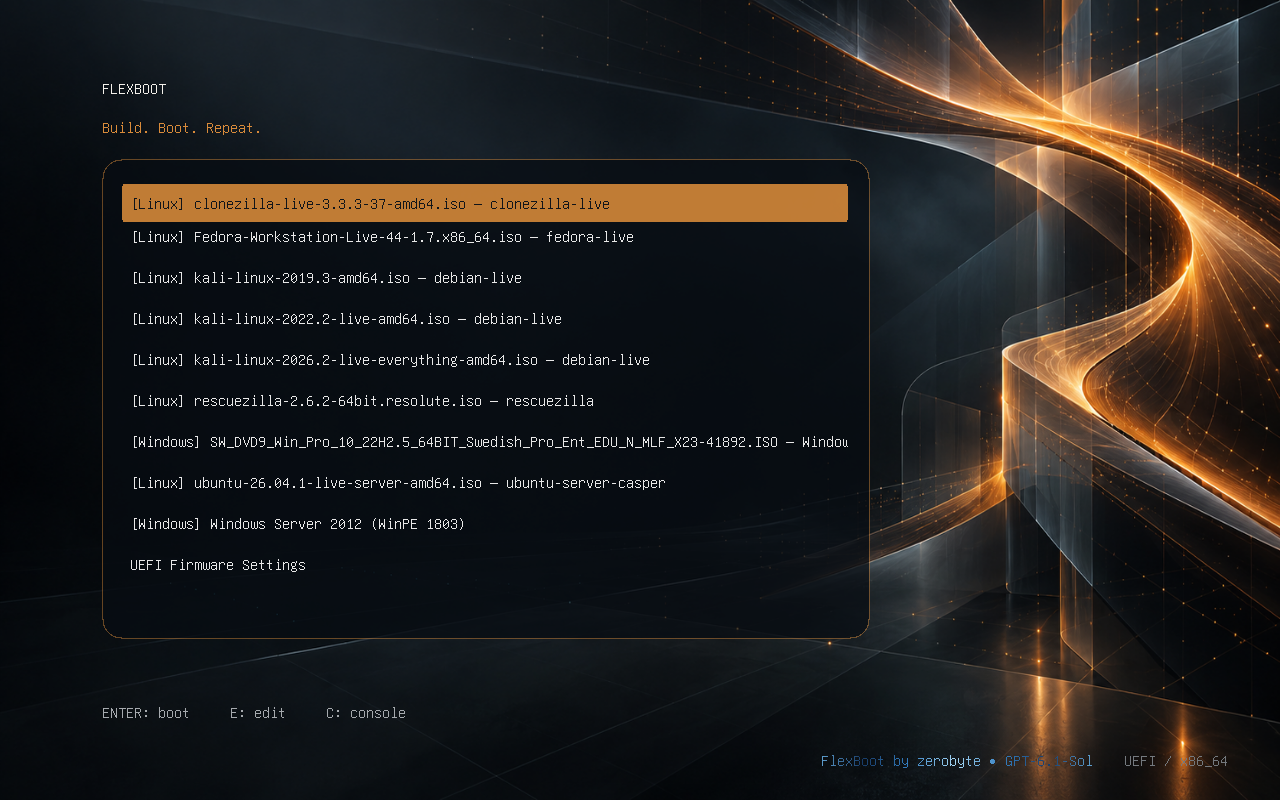
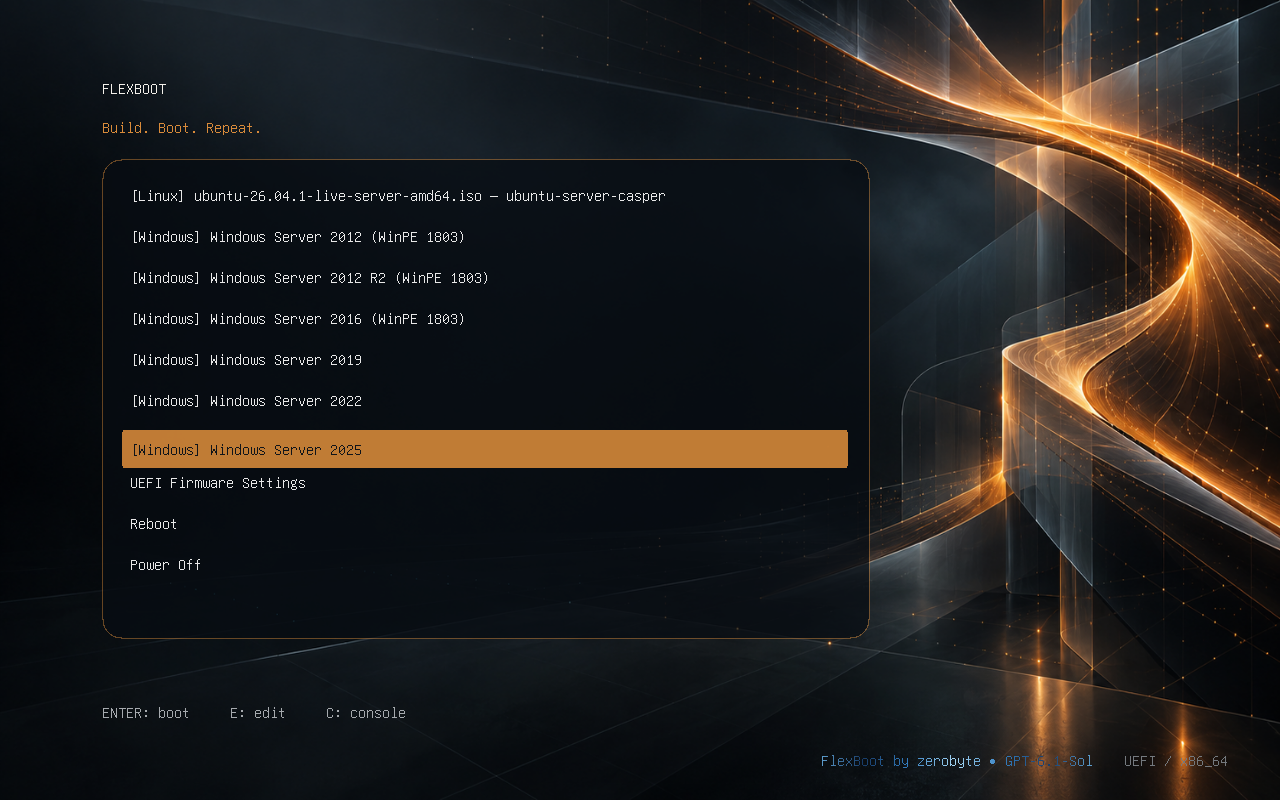
Release 0.7.6: publish USB collection results and follow-up roadmap

diff --git a/flexboot/__init__.py b/flexboot/__init__.py
@@ -1,4 +1,4 @@
 """FlexBoot package."""
 
-__version__ = "0.7.5"
+__version__ = "0.7.6"
 

diff --git a/README.md b/README.md
@@ -12,7 +12,7 @@
 
 ![Actual FlexBoot USB menu with Linux and Windows entries and the zerobyte / GPT-6.1-Sol credit](docs/images/boot-menu.png)
 
-Actual GRUB screen captured in QEMU/OVMF at 1920×1080, with example ISO entries.
+Actual 1280×800 GRUB capture from a 14-image physical USB, booted read-only in QEMU/OVMF. The menu is scrolled to show the Windows Server entries; see the [USB collection test report](docs/TESTING-0.7.5.md).
 
 FlexBoot is a small Linux command-line tool for building and maintaining UEFI multiboot media. ISO images remain intact as normal files, GRUB configuration stays readable, and every boot entry comes from an explicit profile that inspects the image contents.
 
@@ -72,10 +72,10 @@ When running directly from a checkout, replace `flexboot` with `python3 -m flexb
 | Grml amd64 | Matching flavour resources and boot ID; live-boot `findiso=` | Grml small 2026.09 QEMU login; hardware pending |
 | Gentoo amd64 Live | Current dracut layout and matching live-root label | Minimal 20260913 QEMU login; hardware pending |
 | Windows 10/11 x64 WIM installers, opt-in | Prepared WinPE, local NTloader, native read-only ISO API | 10/11 full installations and independent QEMU boots; 1803 Setup/disk detection; supplied Windows 10 hardware boot reported |
-| Windows Server x64 WIM installers, opt-in | Native WinPE, or explicit Windows 10 WinPE donor for older installers | Server 2012, 2012 R2, 2016 and 2019 full installations and independent first-run boots; Server 2022 Setup/disk detection |
+| Windows Server x64 WIM installers, opt-in | Native WinPE, or explicit Windows 10 WinPE donor for older installers | Server 2012, 2012 R2, 2016 and 2019 full installations and independent first-run boots; Server 2022 and 2025 Setup/disk detection |
 | Windows 7 x64 WIM installers, experimental opt-in | Windows 10 WinPE donor; UEFI with CSM enabled, Secure Boot off | Derived Enterprise RTM installer completed installation and destination-only QEMU first-run boot; SP1 and native hardware installation untested |
 
-See the [Server 2012, Windows 7 and USB results](docs/TESTING-0.7.4.md), [earlier older Windows results](docs/TESTING-0.7.3.md), [compatibility expansion results](docs/TESTING-0.7.2.md) and [0.7.0 USB-backed validation results](docs/TESTING-0.7.0.md) for exact images, test scope, and remaining hardware limits.
+See the [14-image USB and Server 2025 results](docs/TESTING-0.7.5.md), [Server 2012, Windows 7 and USB results](docs/TESTING-0.7.4.md), [earlier older Windows results](docs/TESTING-0.7.3.md), [compatibility expansion results](docs/TESTING-0.7.2.md) and [0.7.0 USB-backed validation results](docs/TESTING-0.7.0.md) for exact images, test scope, and remaining hardware limits.
 
 FlexBoot rejects incomplete and unknown layouts instead of producing speculative menu entries. Installer-only Kali images and Fedora network installers do not match the live profiles.
 
@@ -268,6 +268,13 @@ sudo python3 -m flexboot remove /dev/sdX old.iso
 # Reinspect files and regenerate metadata, GRUB, and theme assets
 sudo python3 -m flexboot sync /dev/sdX
 ```
+
+You can also copy supported Linux ISOs directly into the ext4 data partition's
+`iso/` directory, then run `sudo flexboot sync /dev/sdX` to inspect them and
+update the menu. Files must be directly inside `iso/`, not nested in subdirectories.
+Copying alone does not update GRUB. Prefer `flexboot add` for its transactional
+copying and integrity recording. Windows ISOs require `flexboot windows add` to
+prepare boot resources; copying them onto NTFS and running `sync` does not import them.
 
 `sync` stops if an unsupported ISO is present. Unsupported files never receive guessed boot entries.
 It also rejects changed integrity hashes rather than accepting same-size changes.
@@ -489,6 +496,7 @@ See [development](docs/DEVELOPMENT.md) for the test workflow and host-dependent 
 | [Installation](docs/INSTALLATION.md) | Dependency setup and the global command |
 | [Troubleshooting](docs/TROUBLESHOOTING.md) | Common dependency, ISO, GRUB, and theme issues |
 | [Research](docs/RESEARCH.md) | Primary technical references |
+| [Possible next steps](docs/ROADMAP.md) | Compatibility, recovery, and diagnostics candidates |
 
 ## Current limitations
 
@@ -500,6 +508,8 @@ See [development](docs/DEVELOPMENT.md) for the test workflow and host-dependent 
 - Persistence overlays unsupported
 - Encrypted ISO storage unsupported
 - Custom profile definitions unsupported
+
+Near-term candidates are tracked in [possible next steps](docs/ROADMAP.md).
 
 The roadmap includes persistence for compatible distributions, richer theme controls, Secure Boot design, legacy BIOS, ARM64 UEFI, broader Windows image and firmware coverage, and an optional desktop frontend. New boot families are added only when their boot mechanism can be documented and validated reliably.
 

diff --git a/docs/TESTING-0.7.5.md b/docs/TESTING-0.7.5.md
@@ -1,0 +1,89 @@
+# FlexBoot 0.7.5 — 14-image USB and Server 2025
+
+The media work completed on 2026-10-17 using FlexBoot 0.7.5. This report is
+published with the documentation release 0.7.6; it does not claim a new boot-test
+run with 0.7.6. ISO files, prepared runtime binaries, backups, credentials and
+private lab state are excluded from the public repository.
+
+## Collection and preparation
+
+With explicit owner authorization, the existing 128 GB Samsung FIT USB was
+backed up and recreated through the actual FlexBoot CLI. The retained archive
+was independently SHA-256 checked after storage on the backup server. All nine
+original images, custom labels, menu settings and background were preserved;
+filesystem references were rebound to the new UUIDs.
+
+| Partition | Layout |
+|---|---|
+| Boot | 512 MiB FAT32, Microsoft Basic Data role, removable UEFI GRUB |
+| Linux data | Approximately 55 GiB ext4 |
+| Windows data | 64 GiB NTFS reserve, plus partition alignment rounding |
+
+The opt-in Windows layout still requires firmware capable of booting a FAT
+Basic Data partition. See [Windows requirements](WINDOWS.md).
+
+The final menu contains seven Linux and seven Windows images:
+
+| Group | Images |
+|---|---|
+| Linux | Clonezilla 3.3.3-37, Fedora 44, Kali 2019.3, Kali 2022.2, Kali 2026.2 Everything, Rescuezilla 2.6.2, Ubuntu Server 26.04.1 |
+| Windows | Windows 10 22H2 Swedish; Server 2012, 2012 R2, 2016, 2019, 2022 and 2025 |
+
+Server 2012, 2012 R2 and 2016 use the explicitly selected Windows 10 1803 WinPE
+donor. Server 2019, 2022 and 2025 use their native WinPE. The original installer
+ISOs remain intact. The added Server 2025 Evaluation x64 source identifies build
+26100; its source boot WIM index 2 was inspected and WIM integrity checked.
+
+Full verification passed for all 14 images, including recorded ISO and prepared
+resource hashes, Linux profile inspection, and generated-menu consistency.
+Approximately 23.55 GiB remained available on Windows storage and 21.97 GiB on
+Linux storage. The zerobyte / GPT-6.1-Sol branding was retained.
+
+![Actual USB menu, scrolled to the Windows Server entries](images/boot-menu.png)
+
+## Boot evidence from the rebuilt USB
+
+QEMU/OVMF used explicitly read-only physical USB block nodes with a disposable
+writable overlay. Installation destinations were owned virtual disk files.
+Physical USB write-sector counters remained unchanged across both boot tests.
+The screenshots are unedited 1280×800 captures from these runs.
+
+| Image | Result in this pass | Scope |
+|---|---|---|
+| Server 2025 Standard Evaluation, Desktop Experience | Native Setup reached destination selection and detected a blank 64 GiB virtual disk | Stopped before installation |
+| Clonezilla 3.3.3-37 | Reached the live Start Clonezilla interface | No cloning operation started |
+
+![Server 2025 Setup detecting the blank virtual destination](images/server2025-usb-setup.png)
+
+![Clonezilla live interface from the rebuilt USB](images/clonezilla-rebuilt-usb.png)
+
+Read-only FAT32 and ext4 filesystem checks returned exit code 0. The NTFS basic
+`ntfsfix -n` check also returned 0; this is not a full Windows `chkdsk` result.
+The verified backup was retained privately, temporary local ISO/archive staging
+was removed, and the USB was unmounted after completion.
+
+## Limits and earlier results
+
+This pass verifies stored integrity across the complete collection and boots
+Server 2025 and Clonezilla from that collection under emulated firmware. It does
+not establish that all 14 entries were booted again after the rebuild, a complete
+Server 2025 installation, or any new physical-machine boot result. Locally
+recorded hashes do not establish publisher authenticity.
+
+Earlier full installations and destination-only first-run boots for Server
+2012, 2012 R2, 2016 and 2019 remain documented in the
+[0.7.4 report](TESTING-0.7.4.md) and [0.7.3 report](TESTING-0.7.3.md).
+Server 2022 has Setup/destination-detection evidence; no completed Server 2022
+installation is claimed here. Earlier user-reported physical boots apply to the
+images and media tested at that time, not automatically to this expanded set.
+
+Follow-up candidates are tracked in [possible next steps](ROADMAP.md).
+
+## Documentation release checks
+
+For publication on 2026-10-19, the standard test suite ran 162 tests: 160 passed
+and two opt-in loop-image integration tests were skipped because
+`FLEXBOOT_RUN_IMAGE_TESTS=1` was not enabled. No physical media was changed.
+Python compilation, CLI help for the documented commands, local documentation
+links, and matching CLI/package versions (0.7.6) were checked. This documentation
+release does not replace the USB's tested 0.7.5 installation.

diff --git a/docs/ROADMAP.md b/docs/ROADMAP.md
@@ -1,0 +1,24 @@
+# Possible next steps
+
+These are candidates, not release commitments. Prioritize verified boot behavior,
+clear compatibility limits, and preserving existing media.
+
+- [x] Publish the latest 14-image USB results and actual screenshots, separating
+  installer boot, completed installation, and physical hardware evidence.
+  See the [FlexBoot 0.7.5 media report](TESTING-0.7.5.md).
+- [ ] Expand the Linux test matrix across live and installer variants. Record
+  exact releases and firmware, add profiles only for validated boot mechanisms,
+  and keep unsupported images fail-closed.
+- [ ] Complete a Server 2025 installation and destination-only boot in a VM;
+  test Server 2012 R2, 2016, 2019, 2022 and 2025 on physical hardware. Keep donor
+  WinPE and firmware requirements visible and distinguish older test results
+  from new runs on the current USB.
+- [ ] Extend interruption/recovery tests for cancelled copies, insufficient
+  space, and failed metadata/menu publication. Verify existing entries remain
+  usable, partial additions stay out of the menu, and resources are cleaned up.
+- [ ] Improve pre-copy compatibility explanations: detected OS/build, selected
+  boot method, firmware requirements, donor WinPE requirements, and the scope
+  of available test evidence.
+
+Suggested order after documentation: Linux compatibility and failure recovery,
+then deeper Windows validation and richer compatibility diagnostics.

diff --git a/docs/DEVELOPMENT.md b/docs/DEVELOPMENT.md
@@ -66,11 +66,13 @@ support a local QEMU executable and ROM directory. Use `--wait 30` on slower hos
 The output must be a new file. Inspect it visually before replacing the README
 image at `docs/images/boot-menu.png`.
 
-The current README image (0.7.5) was captured from the existing nine-image USB
+The current README image was captured with FlexBoot 0.7.5 from the rebuilt 14-image USB
 under QEMU using a read-only physical backing device and a private writable
 overlay. Its physical write-sector counter stayed unchanged during capture.
-It shows the deployed branding and menu; it does not establish a new native
-hardware boot result.
+It is an unedited 1280×800 capture, scrolled to the Windows Server entries, and
+shows the deployed branding and menu. It does not establish a new native hardware
+boot result. The [collection test report](TESTING-0.7.5.md) also includes actual
+Server 2025 Setup and Clonezilla live-interface captures from the same USB.
 
 ## Real ISO boot tests without root
 

diff --git a/docs/WINDOWS.md b/docs/WINDOWS.md
@@ -6,6 +6,10 @@ intact on a separate NTFS partition; their prepared boot resources come from the
 selected ISO. No Windows image, Microsoft boot binary, or third-party loader is
 shipped in this repository.
 
+The [14-image USB test report](TESTING-0.7.5.md) covers the Server 2012 R2,
+2016, 2019, 2022 and 2025 collection. Server 2025 reached native Setup and
+detected a blank destination; a completed installation is not yet verified.
+
 ## Firmware and layout requirements
 
 The default Linux layout remains GPT, a 512 MiB FAT32 EFI System Partition, and
